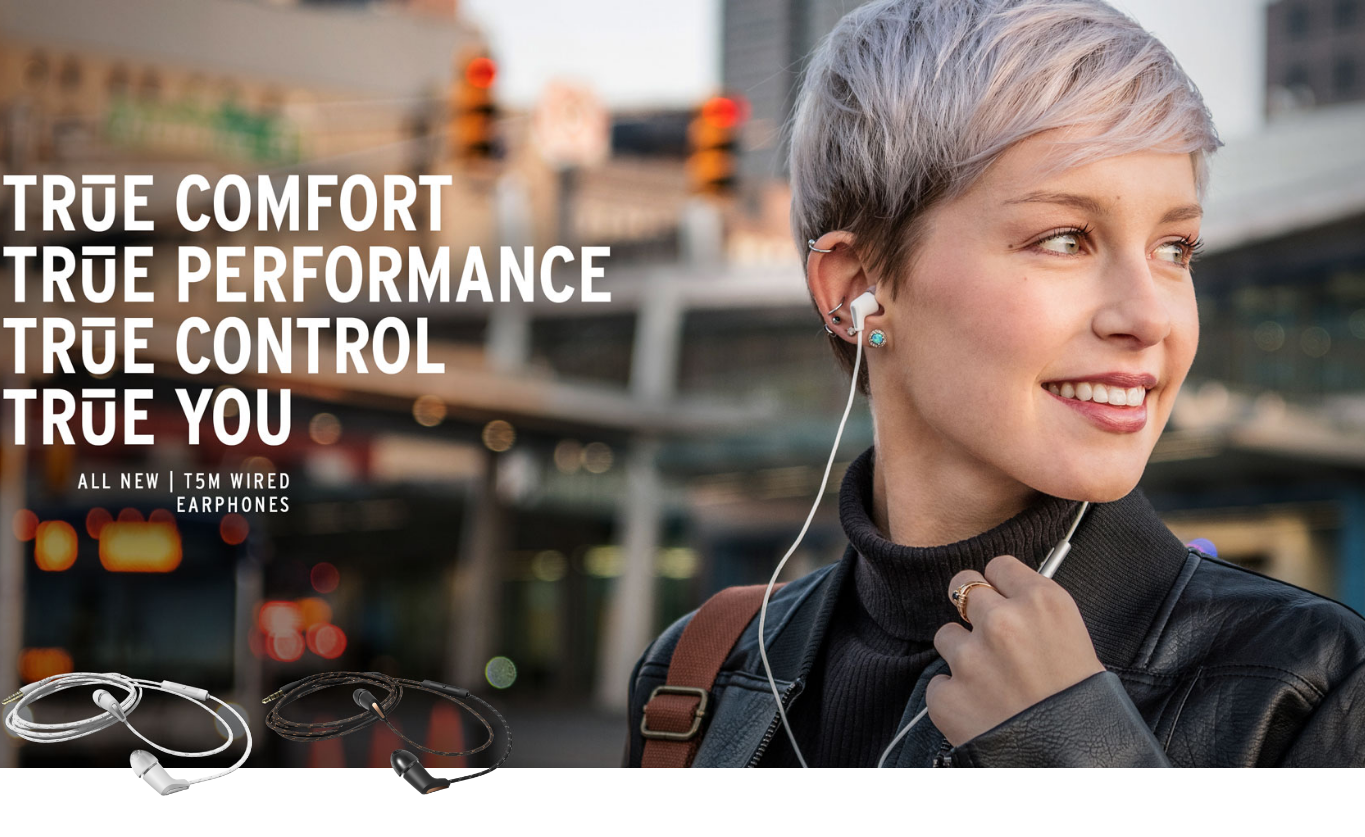
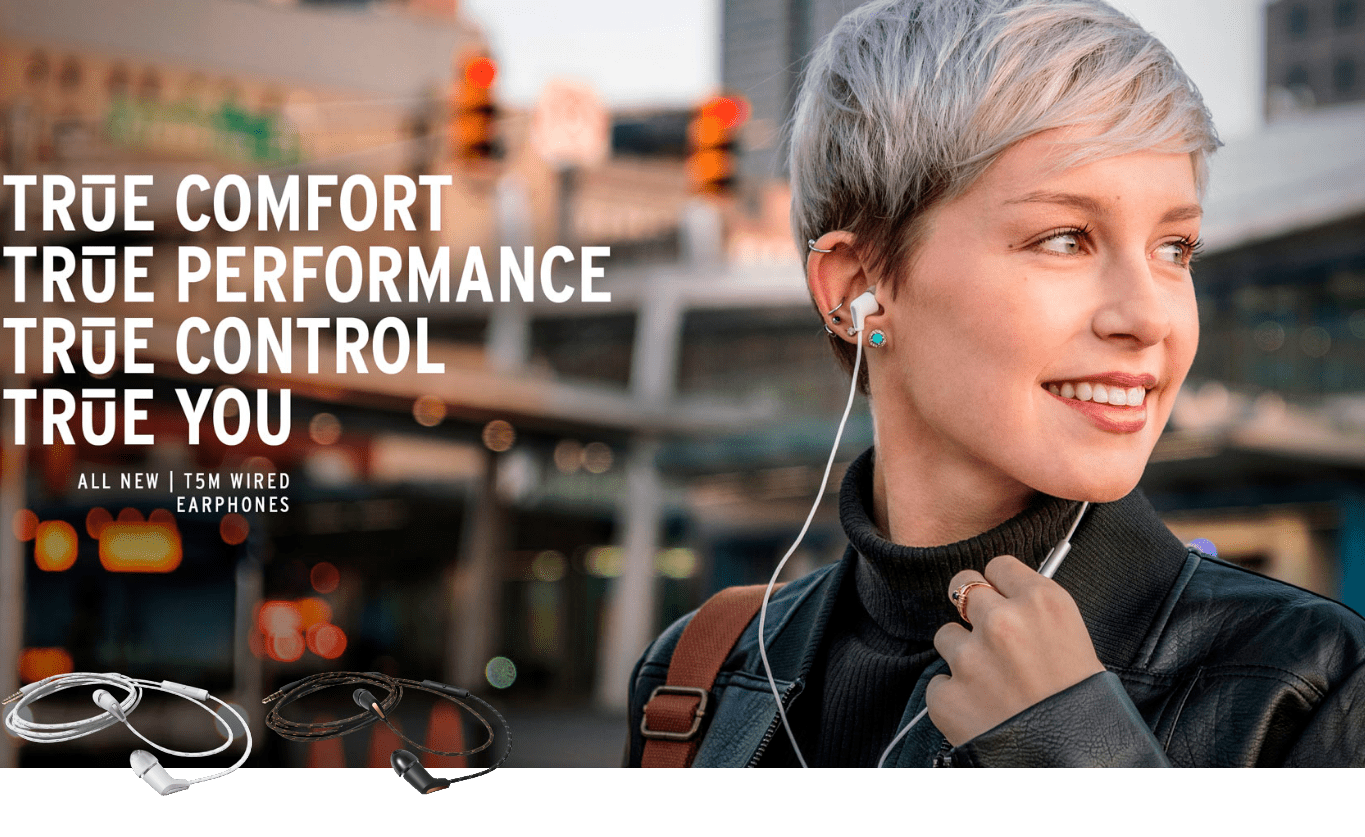
fixed

diff --git a/index.html b/index.html
@@ -13,9 +13,22 @@
     <link href="https://fonts.googleapis.com/css?family=Open+Sans:300,400,600,700&display=swap" rel="stylesheet">
     <script src="https://code.jquery.com/jquery-3.4.1.min.js" integrity="sha256-CSXorXvZcTkaix6Yvo6HppcZGetbYMGWSFlBw8HfCJo=" crossorigin="anonymous"></script>
     <script src="https://kit.fontawesome.com/07d9614657.js"></script>
+     <!-- Google Tag Manager -->
+     <script>(function(w,d,s,l,i){w[l]=w[l]||[];w[l].push({'gtm.start':
+            new Date().getTime(),event:'gtm.js'});var f=d.getElementsByTagName(s)[0],
+            j=d.createElement(s),dl=l!='dataLayer'?'&l='+l:'';j.async=true;j.src=
+            'https://www.googletagmanager.com/gtm.js?id='+i+dl;f.parentNode.insertBefore(j,f);
+            })(window,document,'script','dataLayer','GTM-WRF7S9B');</script>
+            <!-- End Google Tag Manager -->
     <title>Klipsch T5 - новая линейка наушников от легенадрного производителя</title>
 </head>
 <body>
+     <!-- Google Tag Manager (noscript) -->
+     <noscript>
+            <iframe src="https://www.googletagmanager.com/ns.html?id=GTM-WRF7S9B"
+                height="0" width="0" style="display:none;visibility:hidden"></iframe>
+            </noscript>
+            <!-- End Google Tag Manager (noscript) -->
     <div class="main_window">
             <header class="header" id="top">
                     <a href="https://pult.ru" target="_blank"><img class="logo-pult" src="img/logo-pult.svg" alt="logo"></a>
@@ -97,12 +110,12 @@
                             </p>
                         <span class="product-price">14 990 ₽</span>
                         <div class="buttons-container">
-                            <a target="_blank" href="https://www.pult.ru/product/naushniki-klipsch-t5-true-wireless?from=klipsch-t5" class="button buy">Купить</a>
+                            <a target="_blank" href="https://www.pult.ru/product/naushniki-klipsch-t5-true-wireless?from=klipsch-t5" class="button buy js-gtm-landing-buy">Купить</a>
                             <a target="_blank" href="https://pult.ru/articles?from=klipsch-t5" class="button read">Читать обзор</a>
                         </div>
                      </div>
                     <div class="img-part">
-                        <a target="_blank" href="https://www.pult.ru/product/naushniki-klipsch-t5-true-wireless?from=klipsch-t5">
+                        <a class="js-gtm-landing-link" target="_blank" href="https://www.pult.ru/product/naushniki-klipsch-t5-true-wireless?from=klipsch-t5">
                             <img src="img/t5 true wireless.png" alt="Klipsch T5 True Wireless">
                         </a>
                     </div>
@@ -128,12 +141,12 @@
                             стандартов aptX / aptX-HD.</p>
                         <span class="product-price">9 490 ₽</span>
                         <div class="buttons-container">
-                            <a target="_blank" href="https://www.pult.ru/product/naushniki-klipsch-t5-neckband-brown?from=klipsch-t5" class="button buy">Купить</a>
+                            <a target="_blank" href="https://www.pult.ru/product/naushniki-klipsch-t5-neckband-brown?from=klipsch-t5" class="button buy js-gtm-landing-buy">Купить</a>
                             <a target="_blank" href="https://pult.ru/articles?from=klipsch-t5" class="button read">Читать обзор</a>
                         </div>
                      </div>
                     <div class="img-part">
-                        <a target="_blank" href="https://www.pult.ru/product/naushniki-klipsch-t5-neckband-brown?from=klipsch-t5">
+                        <a class="js-gtm-landing-link" target="_blank" href="https://www.pult.ru/product/naushniki-klipsch-t5-neckband-brown?from=klipsch-t5">
                             <img src="img/n5 neckband.png" alt="Klipsch T5 Neckband">
                         </a>
                     </div>
@@ -159,12 +172,12 @@
                             Чувствительность наушников 98 дБ. Пульт ДУ с микрофоном – однокнопочный.</p>
                         <span class="product-price">5 490 ₽</span>
                         <div class="buttons-container">
-                            <a target="_blank" href="https://www.pult.ru/product/naushniki-klipsch-t5m-wired-black?from=klipsch-t5" class="button buy">Купить</a>
+                            <a target="_blank" href="https://www.pult.ru/product/naushniki-klipsch-t5m-wired-black?from=klipsch-t5" class="button buy js-gtm-landing-buy">Купить</a>
                             <a target="_blank" href="https://pult.ru/articles?from=klipsch-t5" class="button read">Читать обзор</a>
                         </div>
                      </div>
                     <div class="img-part">
-                        <a target="_blank" href="https://www.pult.ru/product/naushniki-klipsch-t5m-wired-black?from=klipsch-t5">
+                        <a class="js-gtm-landing-link" target="_blank" href="https://www.pult.ru/product/naushniki-klipsch-t5m-wired-black?from=klipsch-t5">
                             <img src="img/t5m wired.png" alt="Klipsch T5M Wired">
                         </a>
                     </div>
@@ -188,12 +201,12 @@
                              удобное хранение наушников, а сертификация IPX4 обеспечивает устойчивость к поту или влаге.</p>
                         <span class="product-price">8 590 ₽</span>
                         <div class="buttons-container">
-                            <a target="_blank" href="https://www.pult.ru/product/naushniki-klipsch-t5-sport-white?from=klipsch-t5" class="button buy">Купить</a>
+                            <a target="_blank" href="https://www.pult.ru/product/naushniki-klipsch-t5-sport-white?from=klipsch-t5" class="button buy js-gtm-landing-buy">Купить</a>
                             <a target="_blank" href="https://pult.ru/articles?from=klipsch-t5" class="button read">Читать обзор</a>
                         </div>
                      </div>
                     <div class="img-part">
-                        <a target="_blank" href="https://www.pult.ru/product/naushniki-klipsch-t5-sport-white?from=klipsch-t5">
+                        <a class="js-gtm-landing-link" target="_blank" href="https://www.pult.ru/product/naushniki-klipsch-t5-sport-white?from=klipsch-t5">
                             <img src="img/t5 sport.png" alt="Klipsch T5 Sport">
                         </a>
                     </div>
@@ -224,8 +237,10 @@
             $('.b01').addClass('b01-blur');
             $('#gif').removeClass('.gif-block');
             $('#gif').addClass('blur');
-            $('.h1').addClass('h1-blur')
-            $('.fade-info').fadeIn(); 
+            $('.h1').fadeOut();
+            setTimeout(function(){
+            $('.fade-info').fadeIn();
+            }, 200) 
         }, 3000)
     </script>
     <!-- <script>

diff --git a/css/style.css b/css/style.css
@@ -20,14 +20,14 @@ body {
 }
 
 .gif-block {
-    background: url(../img/top-2.gif) center no-repeat;
+    background: url(../img/top-2-с.gif) center no-repeat;
     background-size: cover;
     height: 730px;
 }
 
 .blur {
     filter: blur(2px);
-    background: url(../img/top-2.gif) center no-repeat;
+    background: url(../img/top-2-с.gif) center no-repeat;
     background-size: cover;
     height: 730px;
 }
@@ -65,7 +65,7 @@ body {
     font-size: 20px;
     line-height: 27px;
     font-weight: 400;
-    padding: 105px 0 0 0;
+    padding: 150px 0 0 0;
     color: #eeeeee;
     max-width: 700px;
     text-shadow: 1px 1px 2px #000;
@@ -80,7 +80,7 @@ body {
     font-size: 20px;
     margin: 0 auto;
     text-decoration: none;
-    text-shadow: 1px 1px 2px #000;
+    text-shadow: 1px 1px 2px #343749;
     padding: 0 0 50px 0;
 }
 
@@ -160,6 +160,7 @@ body {
     font-weight: 700;
     font-size: 42px;
     line-height: 57px;
+    margin: 0 0 10px 0;
 }
 
 .product-description {
@@ -199,6 +200,10 @@ body {
     border: 2px solid #fff;
 }
 
+.read {
+    display: none;
+}
+
 .img-part {
     margin: 0 auto;
     text-align: center;
@@ -228,12 +233,8 @@ body {
 
 .mt- {
     margin-top: -70px;
-    padding-top: 190px;
+    padding-top: 150px;
 }
-
-
-
-
 
 
 
@@ -313,8 +314,8 @@ body {
     }
 
     .intro {
-        margin: 0 auto 30px auto;
-        padding: 30px 0 0 0;
+        margin: 0 auto 60px auto;
+        padding: 100px 0 0 0;
     }
 
     .b03 {
